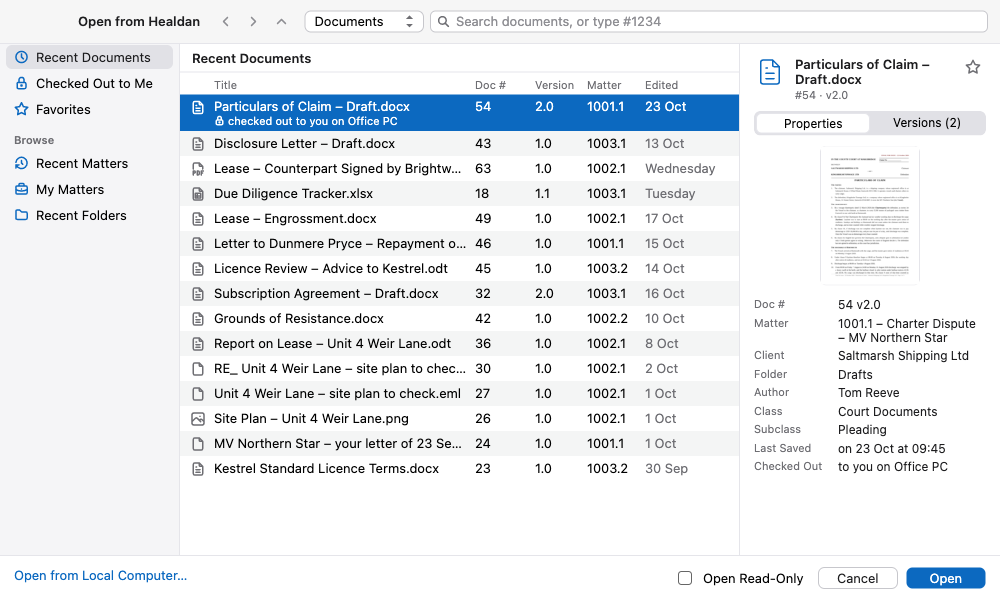
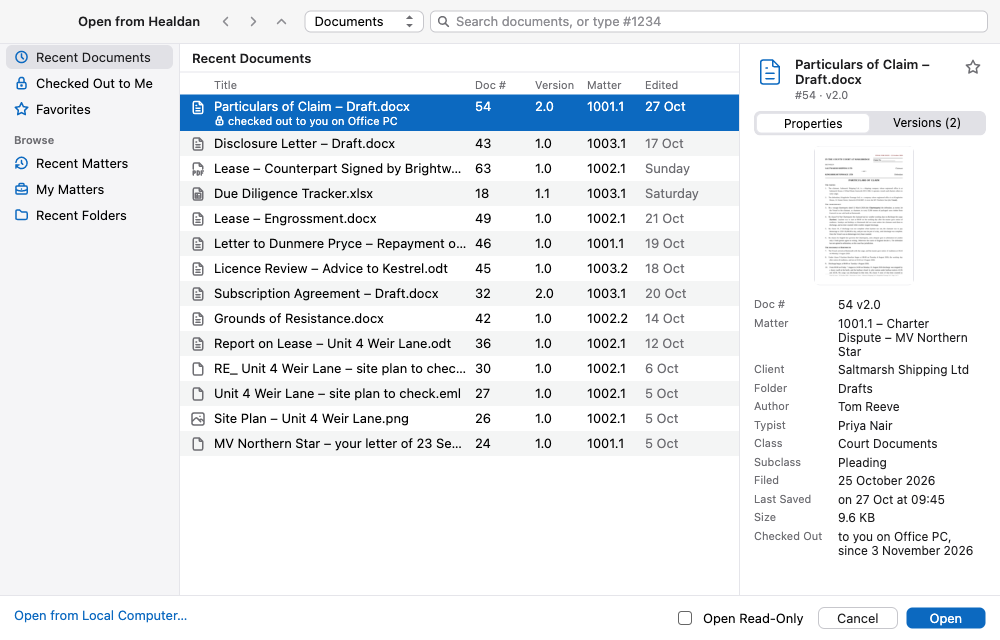
Retake Open from Healdan and Properties with the new details
Open from Healdan's picture shows #54's new rows: Typist, Filed, Size, and the check-out on Office PC
since 3 November 2026. It's 640 pt tall rather than 600, so every row fits without the scroll bar.
Properties' shows #32's size in its subtitle. Both are from the demo firm, as Priya Nair, and their
alt text says what's new.

Writing Docs now starts the helper for pictures with LANG=en_GB.UTF-8 as well as TZ=Europe/London,
as it writes dates and times in the Mac's region's order and the firm is in England.

diff --git a/site/content/user/office/opening-documents/index.md b/site/content/user/office/opening-documents/index.md
@@ -34,7 +34,7 @@ Double-clicking a document in the web page still shows its preview.
 Any of LibreOffice's ways of opening shows the **Open from Healdan** window: **⌘O**, **File › Open**, **Open File**
 in the Start Center, and **Healdan › Open from Healdan…**. So does **Open from Healdan…** in the helper's menu.
 
-![The Open from Healdan window: Recent Documents listed in the middle, Particulars of Claim – Draft.docx selected and checked out to you on Office PC, and its details on the right, under a header with its name, #54 and v2.0, and Properties and Versions tabs, with Properties showing its thumbnail, its matter 1001.1 – Charter Dispute – MV Northern Star, its client, folder, author, Class and Subclass, when it was last saved, and that it's checked out to you on Office PC](open-from-healdan.png)
+![The Open from Healdan window: Recent Documents listed in the middle, Particulars of Claim – Draft.docx selected and checked out to you on Office PC, and its details on the right, under a header with its name, #54 and v2.0, and Properties and Versions tabs, with Properties showing its thumbnail, its matter 1001.1 – Charter Dispute – MV Northern Star, its client, folder, author, typist, Class and Subclass, that it was filed on 25 October 2026 and last saved on 27 Oct at 09:45, its size, 9.6 KB, and that it's checked out to you on Office PC since 3 November 2026](open-from-healdan.png)
 
 - **On the left:** Recent Documents (where it starts), Checked Out to Me and Favorites, then Recent Matters, My
   Matters and Recent Folders to browse.

diff --git a/site/content/user/office/editing-and-versions/index.md b/site/content/user/office/editing-and-versions/index.md
@@ -82,7 +82,7 @@ Choose where it goes, change what you need to, and save. Then:
 Choose **Healdan › Properties…**, or **Properties** on the Healdan toolbar (the Healdan tab, in Word, Excel and
 PowerPoint), to see or change the document's properties without leaving the app. They're the properties of the Ext. Properties tab in the web page.
 
-![The Properties window for #32: a header with the document's icon, Subscription Agreement – Draft.docx, and #32 · v2.0, then Client / Matter 1003.1 – Series A Investment from the matter, with the client Kestrel Software Ltd under it, Author Helen Ashcombe, Typist Chris Doyle, Class Agreements, Subclass Draft, Comments and Legacy doc #, with Cancel and Save](properties.png)
+![The Properties window for #32: a header with the document's icon, Subscription Agreement – Draft.docx, and #32 · v2.0 · 12.6 KB, then Client / Matter 1003.1 – Series A Investment from the matter, with the client Kestrel Software Ltd under it, Author Helen Ashcombe, Typist Chris Doyle, Class Agreements, Subclass Draft, Comments and Legacy doc #, with Cancel and Save](properties.png)
 
 - **The header** gives the document's doc #, version and size, as in `#32 · v2.0 · 48.2 KB`.
 - **Client / Matter,** marked "from the matter", shows the matter, with its client's name under it. It can't be

diff --git a/site/content/developer/writing-docs.md b/site/content/developer/writing-docs.md
@@ -79,7 +79,8 @@ Hextra's shortcodes cover most needs: `callout` (with `type="info"` or `type="wa
 - Take them at a true 1280 × 800, with headless Chrome: the browser pane scales the page down. Start Chrome with
   `TZ=Europe/London`, the demo stack's time zone, so the times it shows are the firm's, not your computer's.
 - The Healdan Helper's windows come from a [helper run from source](../desktop-clients/#running-the-helper-from-source),
-  started with `TZ=Europe/London` and signed in to the demo stack as `pnair`. For the pictures only, add the
+  started with `TZ=Europe/London` and `LANG=en_GB.UTF-8` and signed in to the demo stack as `pnair`. The helper writes
+  dates and times in the Mac's region's order, and `LANG` makes it the UK's, as the firm's, whatever your Mac's is. For the pictures only, add the
   `AvaloniaUI.DiagnosticsSupport` package and `this.AttachDeveloperTools(o => o.EnableDiscovery = true)` to a local
   build, without committing them. Avalonia's Developer Tools (`avdt mcp`) then find each window, click and type in it,
   and save it as a PNG. The channel's routes open the windows the menu bar doesn't (see
